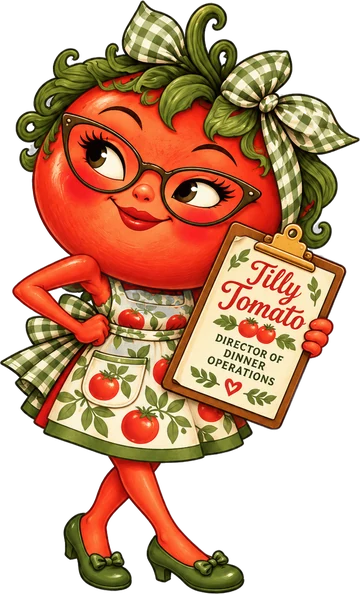
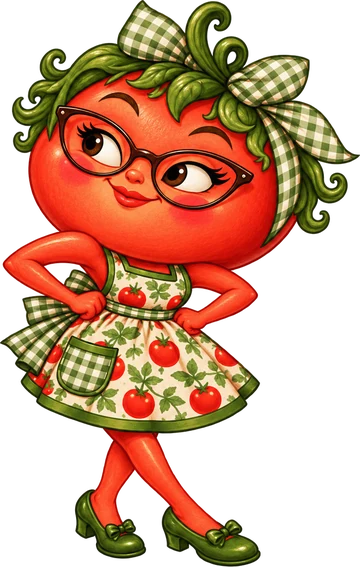
Add files via upload

diff --git a/app.js b/app.js
@@ -488,10 +488,10 @@
   function renderFavorites() {
     const items = state.recipes.filter((r) => state.favorites.has(r.id));
     $('#view-favorites').innerHTML = `
-      <div class="view-head"><h2>Favorites</h2><p>${items.length ? 'Dinners you saved.' : ''}</p></div>` +
+      <div class="view-head has-mascot">${Art.decor('favoritesMascot', 'head-mascot basil')}<h2>Favorites</h2><p>${items.length ? 'Dinners you saved.' : ''}</p></div>` +
       (items.length
-        ? `<div class="list">${items.map(card).join('')}</div>${Art.decor('favoritesFooter', 'decor list-end')}`
-        : `<div class="empty">${Art.decor('favoritesEmpty', 'decor')}<p>No favorites yet. Tap Save on any recipe to keep it here.</p><button class="linkbtn" data-go="recipes">Browse recipes</button></div>`);
+        ? `<div class="list">${items.map(card).join('')}</div>`
+        : `<div class="empty"><p>No favorites yet. Tap Save on any recipe to keep it here.</p><button class="linkbtn" data-go="recipes">Browse recipes</button></div>`);
   }
 
   /* ---------- rendering: Home ---------- */
@@ -638,9 +638,8 @@
     const hint = waiting ? `<p class="shop-hint">${waiting} selected ${waiting === 1 ? 'dinner isn’t' : 'dinners aren’t'} on the calendar yet, so ${waiting === 1 ? 'it’s' : 'they’re'} not on this list.</p>` : '';
     if (!n) {
       view.innerHTML = `
-        <div class="view-head"><h2>Shopping List</h2></div>${nav}
+        <div class="view-head has-mascot">${Art.decor('shoppingMascot', 'head-mascot ollie')}<h2>Shopping List</h2></div>${nav}
         <p class="shop-note">No dinners are planned for these dates yet. Plan some and everything you need shows up here.</p>${hint}
-        ${Art.decor('shoppingEmpty', 'decor')}
         <div class="empty"><button class="linkbtn" data-go="week">Plan This Week</button></div>`;
       return;
     }
@@ -651,7 +650,7 @@
     const groups = CATS.map(([k, label]) => [label, buy.filter((i) => i.cat === k)]).filter(([, l]) => l.length);
     const anyDone = items.some((i) => done.has(i.key));
     view.innerHTML = `
-      <div class="view-head"><h2>Shopping List</h2></div>${nav}
+      <div class="view-head has-mascot">${Art.decor('shoppingMascot', 'head-mascot ollie')}<h2>Shopping List</h2></div>${nav}
       <p class="shop-note">Covers the ${n} ${n === 1 ? 'dinner' : 'dinners'} planned for these seven days.${anyDone ? ' <button class="linkbtn" data-uncheck>Uncheck all</button>' : ''}</p>${hint}
       ${groups.map(([label, list]) => `<section class="shop-group"><h3>${esc(label)}</h3><ul class="shop-list">${list.map((i) => shopRow(i, done)).join('')}</ul></section>`).join('')}
       ${staples.length ? `<details class="shop-group staples"><summary>Probably in your pantry (${staples.length})</summary><ul class="shop-list">${staples.map((i) => shopRow(i, done)).join('')}</ul></details>` : ''}`;

diff --git a/sw.js b/sw.js
@@ -1,11 +1,11 @@
 // Dinner Darling service worker.
 // Bump VERSION when shipping changes to app files so phones pick them up.
-const VERSION = 'v36';
+const VERSION = 'v38';
 const CACHE = `dinner-darling-${VERSION}`;
 const SHELL = [
   './', 'index.html', 'styles.css', 'app.js', 'art.js', 'recipes.json', 'assets/assets.json', 'manifest.webmanifest',
   'fonts/fraunces.woff2', 'fonts/fraunces-italic.woff2', 'fonts/figtree.woff2',
-  'icons/tomato.svg', 'assets/decor/basil.webp', 'assets/decor/garlic.webp', 'assets/decor/herbs.webp', 'assets/decor/lemon-branch.webp', 'assets/decor/olive.webp', 'assets/decor/rosemary-peek.webp', 'assets/header-vine.webp', 'assets/mascot/tilly-header.webp', 'assets/mascot/tilly-cooking-home.webp', 'assets/meal-type/pasta.webp', 'assets/meal-type/bowls.webp', 'assets/meal-type/salad.webp', 'assets/meal-type/sheet-pan.webp', 'assets/meal-type/skillet.webp', 'assets/meal-type/soup.webp', 'assets/protein/chicken.webp', 'assets/protein/pork.webp', 'assets/protein/salmon.webp', 'assets/protein/steak.webp', 'assets/protein/fish.webp', 'assets/protein/beef.webp', 'assets/protein/vegetarian.webp', 'assets/protein/turkey.webp', 'icons/icon-192.png', 'icons/icon-512.png', 'icons/apple-touch-icon.png'
+  'icons/tomato.svg', 'assets/decor/basil.webp', 'assets/decor/garlic.webp', 'assets/decor/herbs.webp', 'assets/decor/lemon-branch.webp', 'assets/decor/olive.webp', 'assets/decor/rosemary-peek.webp', 'assets/header-vine.webp', 'assets/mascot/tilly-header.webp', 'assets/mascot/basil-cat.webp', 'assets/mascot/ollie-olive.webp', 'assets/mascot/tilly-cooking-home.webp', 'assets/meal-type/pasta.webp', 'assets/meal-type/bowls.webp', 'assets/meal-type/salad.webp', 'assets/meal-type/sheet-pan.webp', 'assets/meal-type/skillet.webp', 'assets/meal-type/soup.webp', 'assets/protein/chicken.webp', 'assets/protein/pork.webp', 'assets/protein/salmon.webp', 'assets/protein/steak.webp', 'assets/protein/fish.webp', 'assets/protein/beef.webp', 'assets/protein/vegetarian.webp', 'assets/protein/turkey.webp', 'icons/icon-192.png', 'icons/icon-512.png', 'icons/apple-touch-icon.png'
 ];
 
 self.addEventListener('install', (e) => {

diff --git a/styles.css b/styles.css
@@ -133,6 +133,10 @@ svg { display: block; }
 
 /* ---------- This Week + Favorites ---------- */
 .view-head h2 { margin: 6px 0 0; font-family: var(--serif); font-weight: 700; font-size: 1.75rem; letter-spacing: -0.02em; line-height: 1.1; }
+.view-head.has-mascot { position: relative; min-height: 112px; padding-right: 128px; }
+.head-mascot { position: absolute; right: 2px; bottom: 8px; height: auto; pointer-events: none; }
+.head-mascot.ollie { width: 80px; bottom: 16px; }
+.head-mascot.basil { width: 118px; }
 .view-head p { margin: 6px 0 20px; color: var(--ink-soft); }
 
 /* ---------- Tab bar ---------- */
@@ -257,11 +261,11 @@ body[data-tab="home"] .tabbar { border-top-color: transparent; }
 
 /* ---------- Plan This Week (calendar) ---------- */
 #view-week { --peek: clamp(104px, 30vw, 170px); }
-.plan-head { min-height: calc(var(--peek) * 0.72 + 4px); padding-right: calc(var(--peek) + 10px); }
+.plan-head { min-height: calc(var(--peek) * 0.9 + 4px); padding-right: calc(var(--peek) * 0.63 + 22px); }
 .plan-head h2 { margin: 6px 0 0; font-family: var(--serif); font-weight: 700; font-size: 1.75rem; letter-spacing: -0.02em; line-height: 1.1; }
 .plan-head p { margin: 6px 0 8px; color: var(--ink-soft); font-size: .9375rem; }
 .cal { position: relative; border: 1.5px solid var(--line); border-radius: 18px; background: var(--paper); }
-.rosemary-peek { position: absolute; right: 12px; bottom: calc(100% - 2px); width: var(--peek); height: auto; pointer-events: none; }
+.rosemary-peek { position: absolute; right: 14px; bottom: calc(100% - 2px); width: calc(var(--peek) * 0.63); height: auto; pointer-events: none; }
 .cal-bar { display: flex; flex-direction: column; gap: 10px; padding: 10px; border-bottom: 1.5px solid var(--line); }
 .cal-nav, .cal-ctl, .shop-week { display: flex; align-items: center; gap: 8px; }
 .cal-range { flex: 1; text-align: center; font-family: var(--serif); font-weight: 700; font-size: 1.0625rem; }
